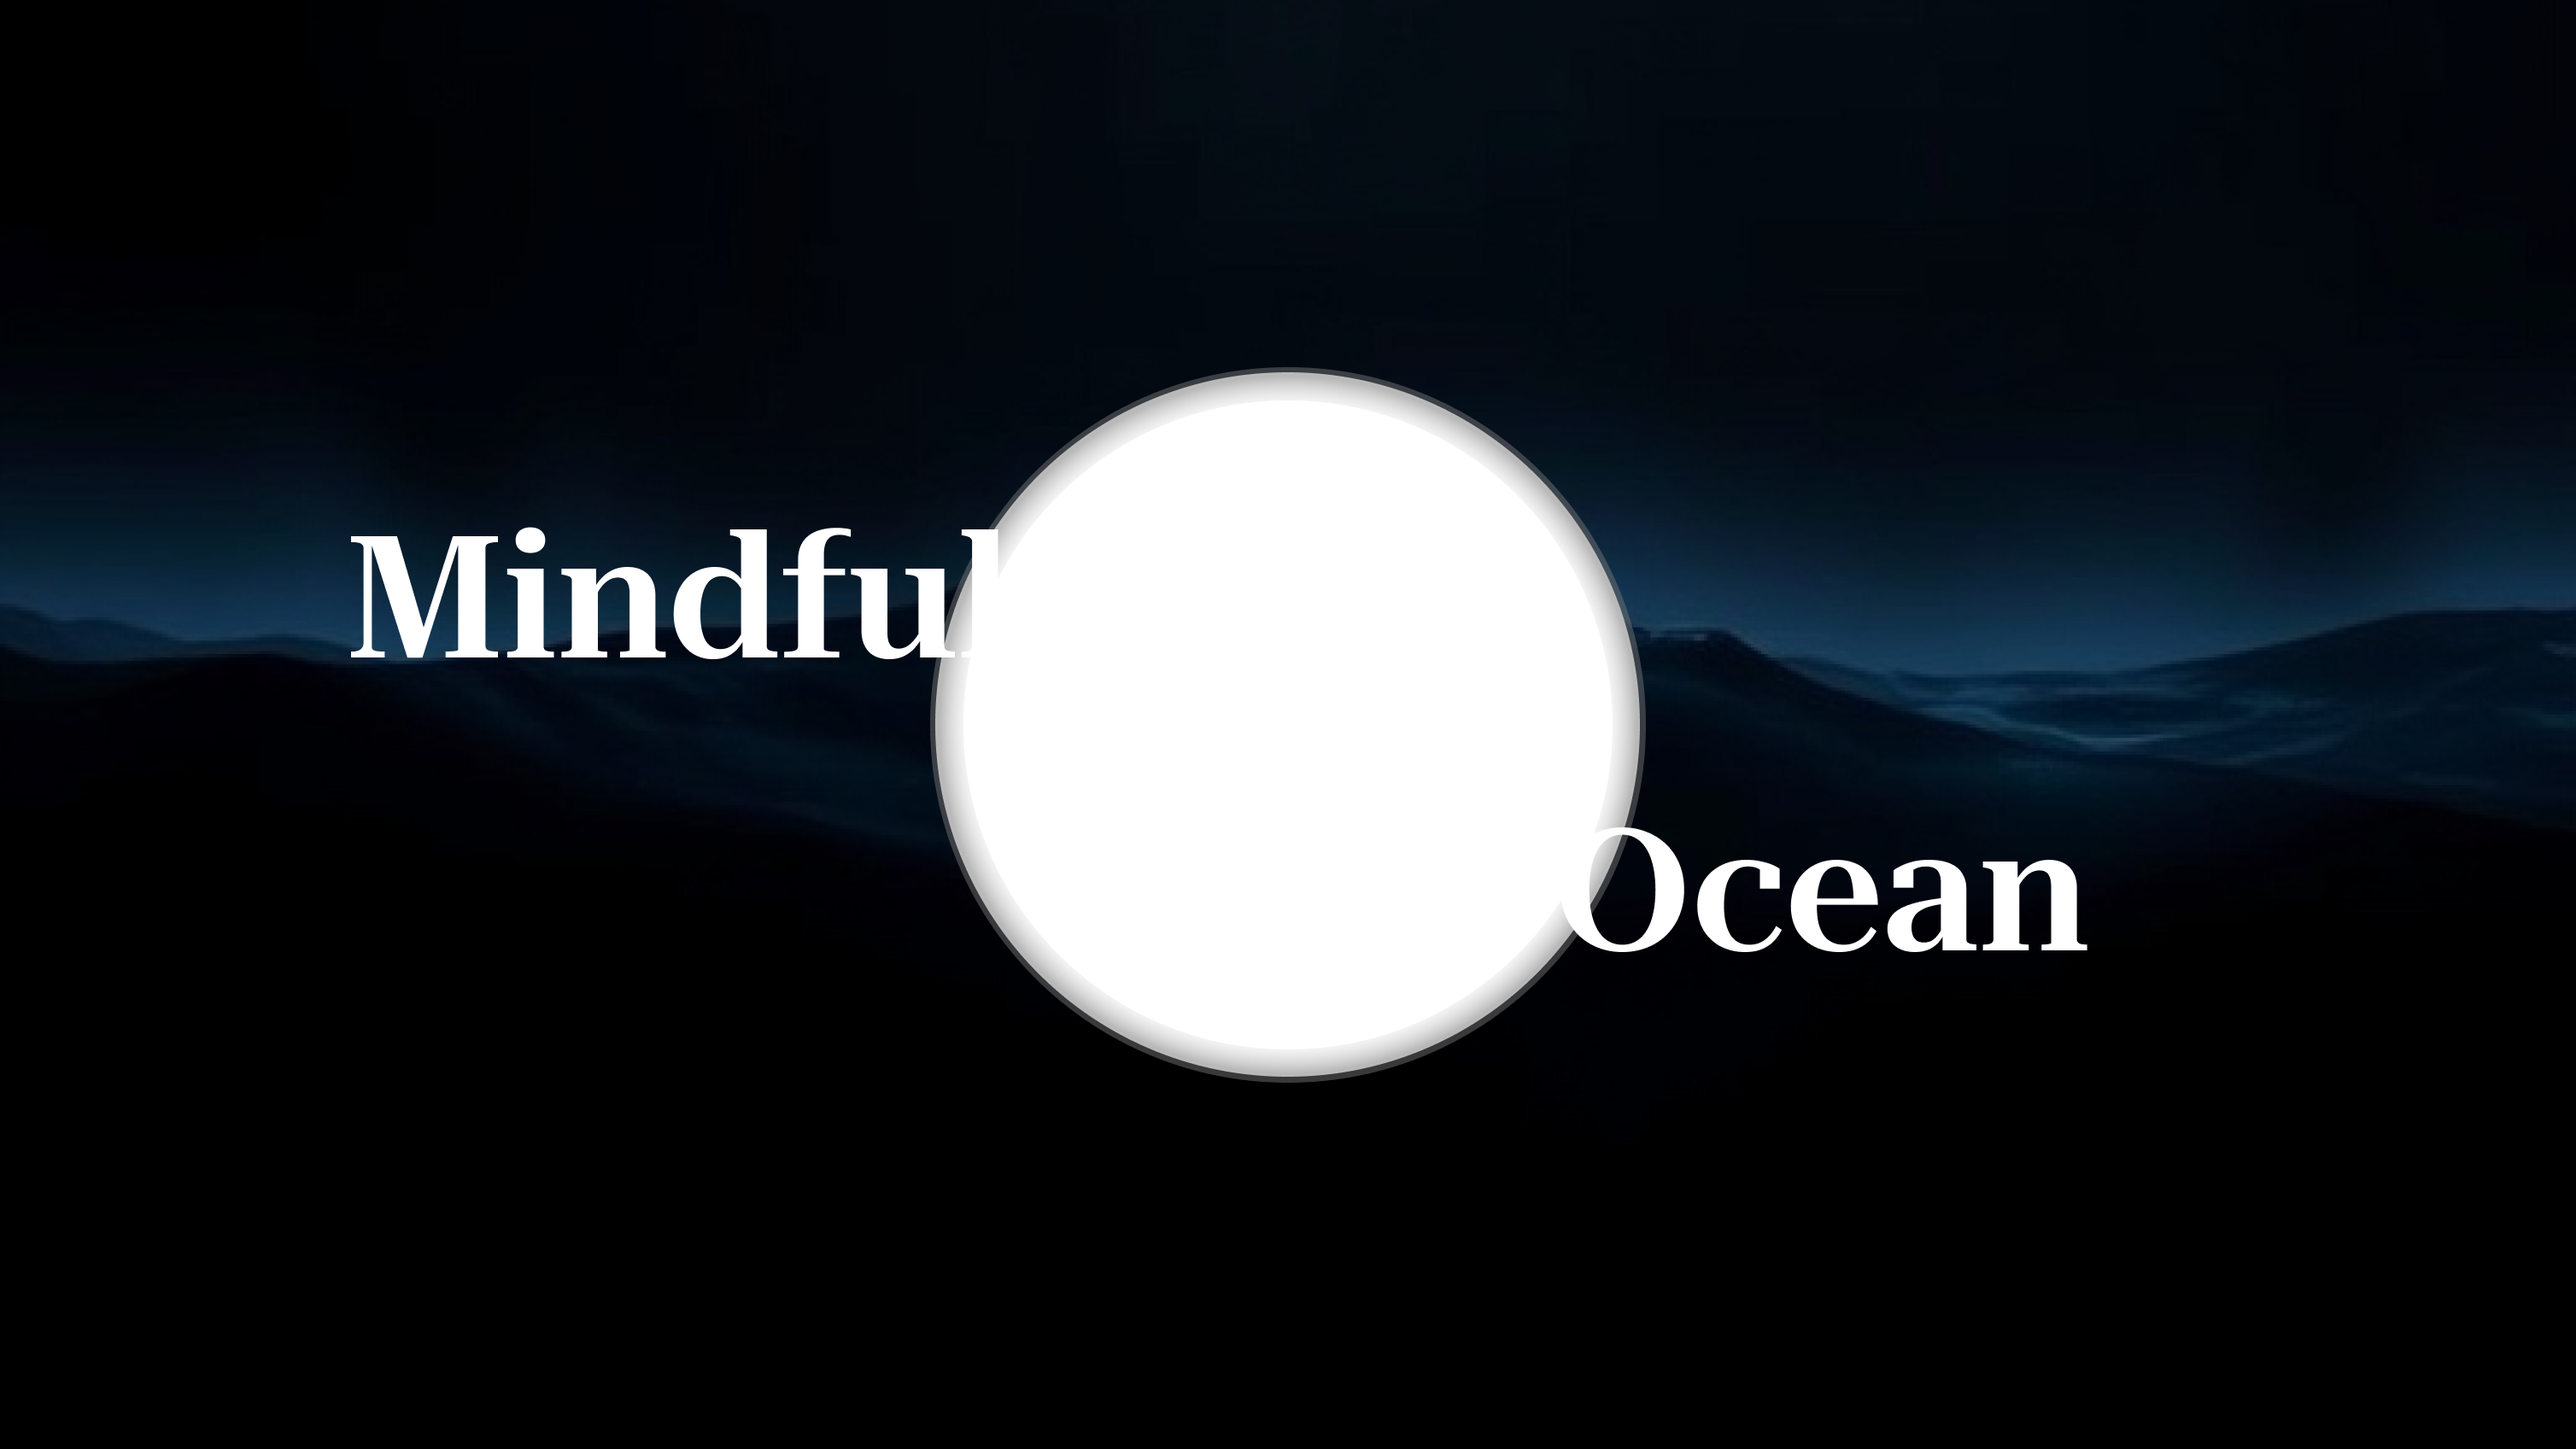
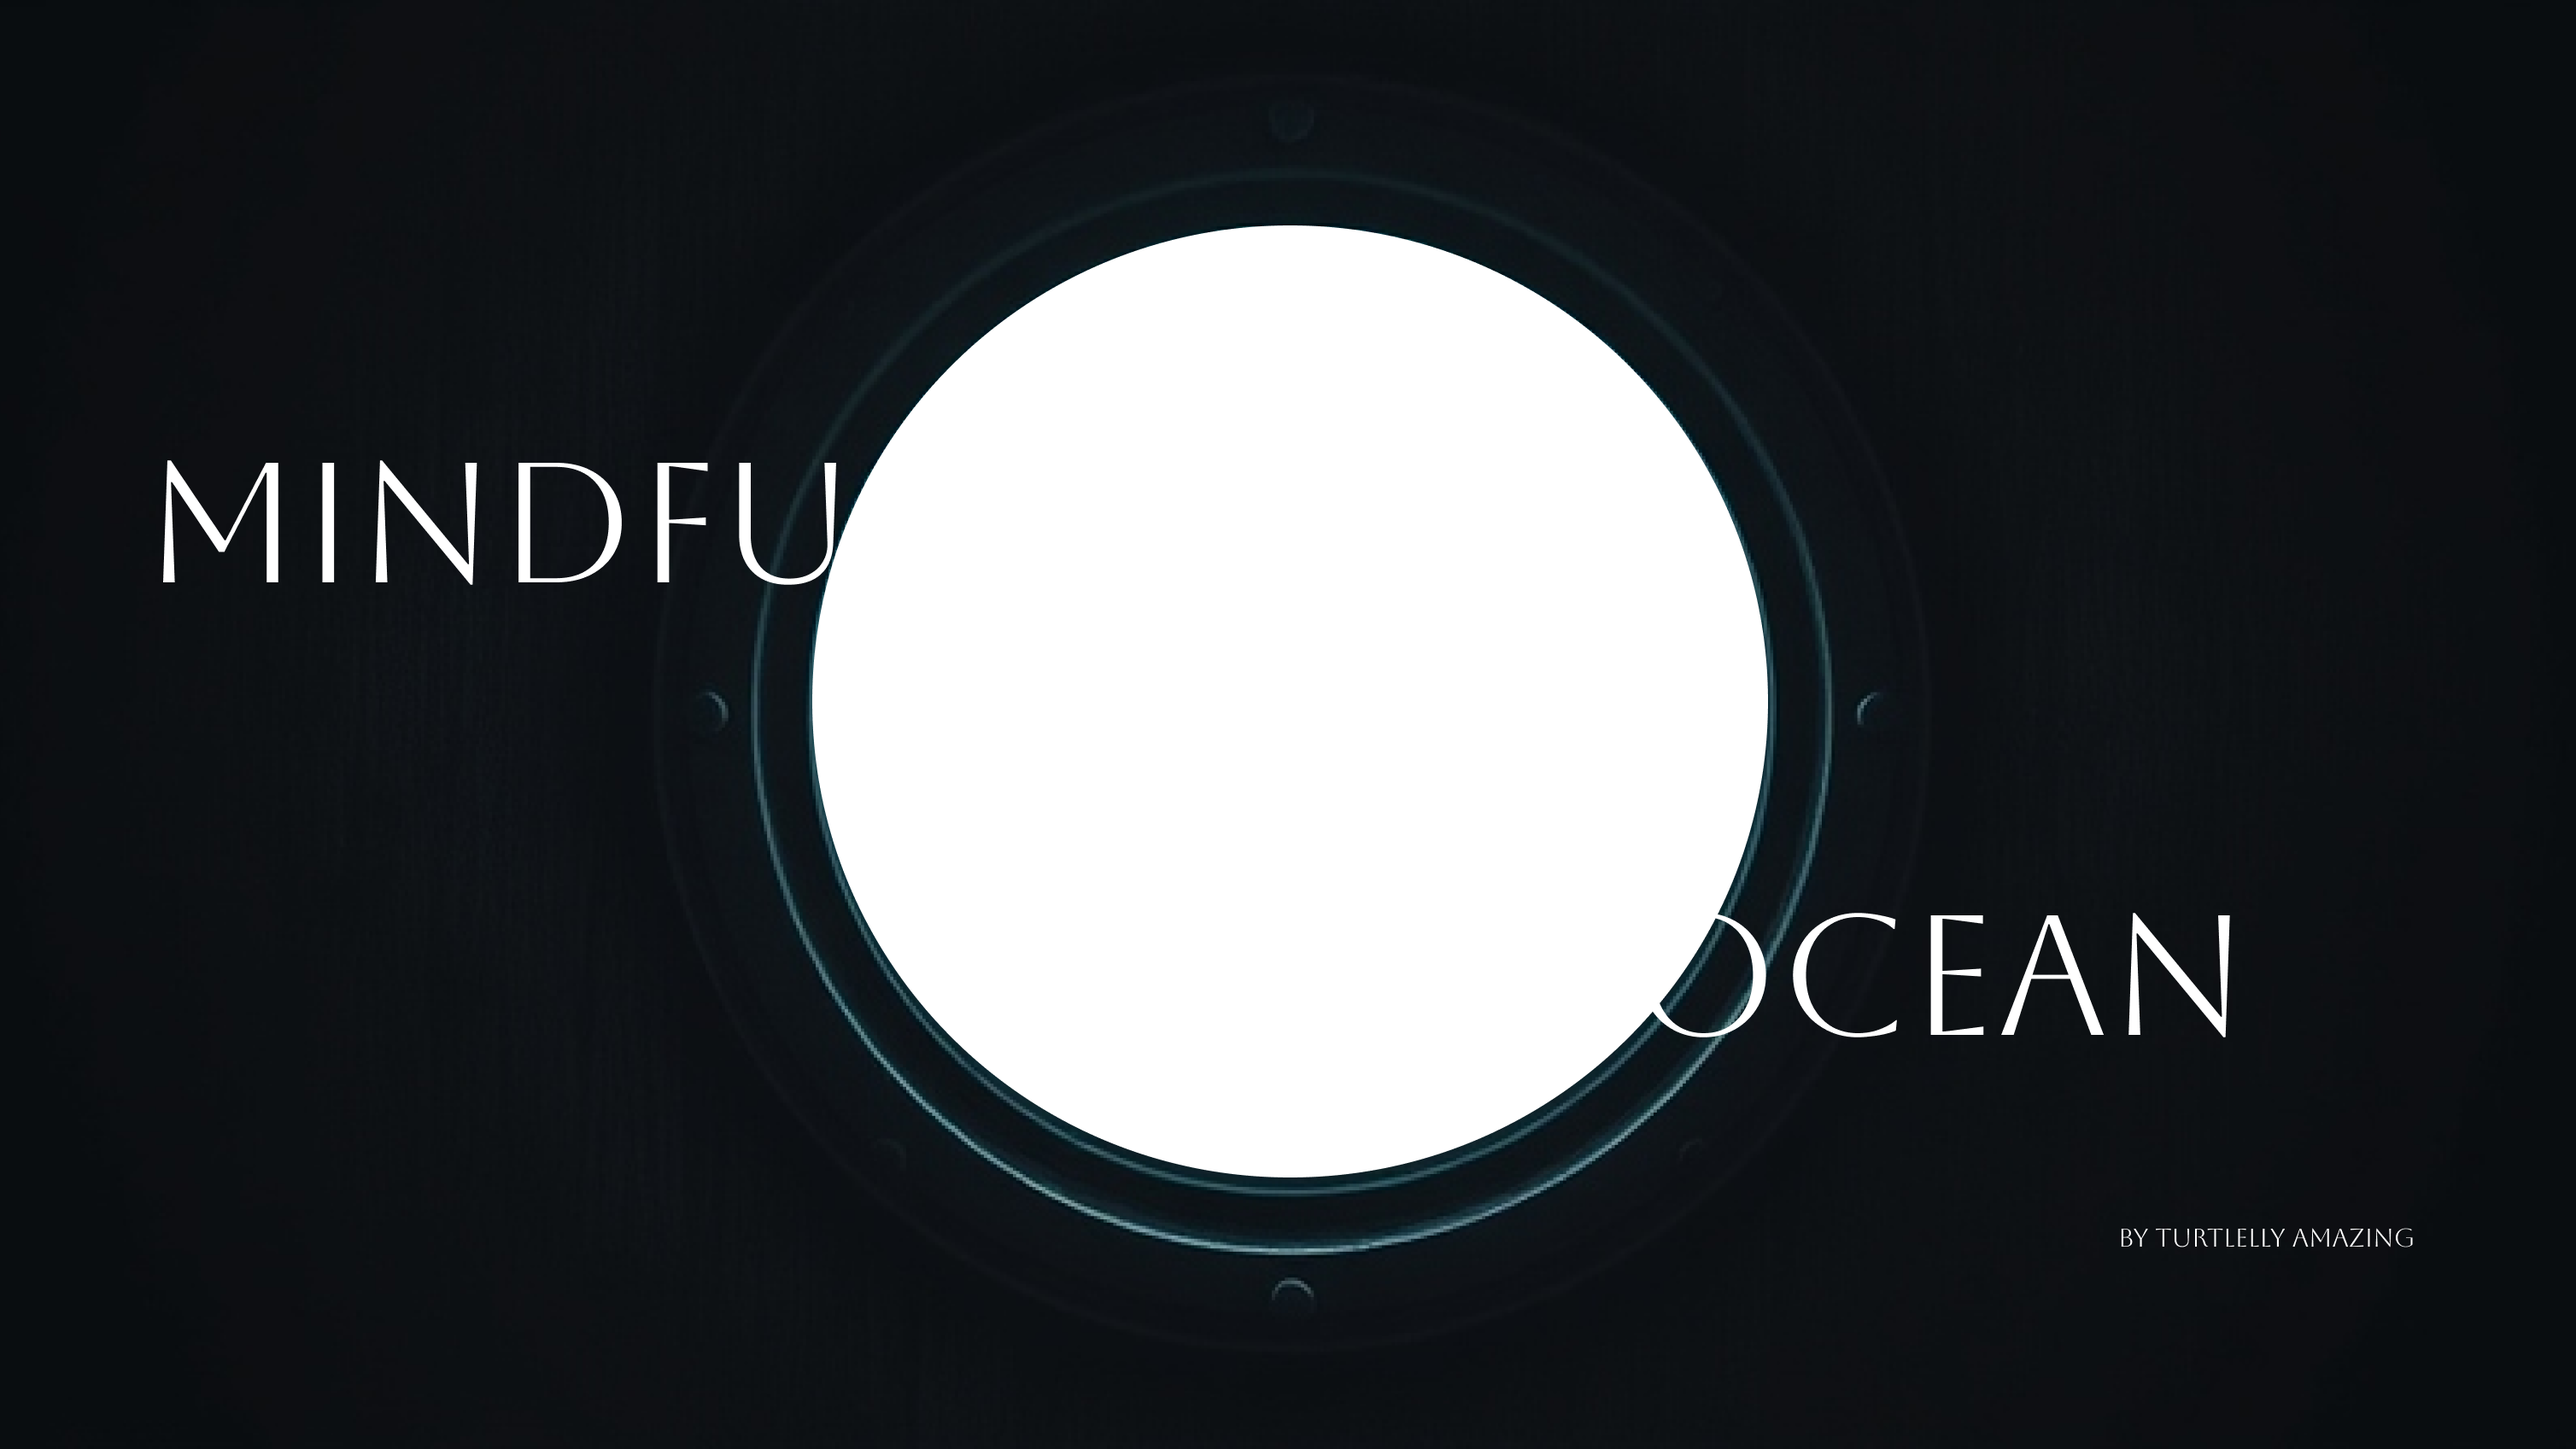
Changed frontend interface.

Changed region(s): [[0.0, 0.1562, 1.0, 0.9057], [0.8415, 0.8433, 0.935, 0.8745]]

diff --git a/client/src/components/informUserSection.tsx b/client/src/components/informUserSection.tsx
@@ -1,18 +1,17 @@
 import React from 'react';
+import { contentInformUser_1, contentInformUser_2, contentInformUser_3 } from '../resources/landigpageTextContent.tsx';
 
 interface Order {
-    text_one: string;
-    text_two: string;
-    text_three: string;
-    text_four: string;
     firstGridElementRef: React.RefObject<HTMLDivElement>;
 }
-const InformUserSection: React.FC<Order> = ({text_one, text_two, text_three, text_four, firstGridElementRef}) => {
+const InformUserSection: React.FC<Order> = ({firstGridElementRef}) => {
+    
+    
     return (
         <div className="grid grid-cols-2 grid-rows-3 gap-64 p-14" id='InformUserSection' ref={firstGridElementRef}>
-            <div ref={firstGridElementRef}>{"Microplastics are defined as plastics that are smaller than 5mm (0.20 in) and are a growing problem affecting coastal communities, marine ecosystems, marine life, and human health"}</div>
-            <div className="col-start-2 row-start-2">{"Microplastics are defined as plastics that are smaller than 5mm (0.20 in) and are a growing problem affecting coastal communities, marine ecosystems, marine life, and human health"}</div>
-            <div className="row-start-3">{"Microplastics are defined as plastics that are smaller than 5mm (0.20 in) and are a growing problem affecting coastal communities, marine ecosystems, marine life, and human health"}</div>
+            <div ref={firstGridElementRef}>{contentInformUser_1}</div>
+            <div className="col-start-2 row-start-2">{contentInformUser_2}</div>
+            <div className="row-start-3">{contentInformUser_3}</div>
         </div>
     )
 }

diff --git a/client/src/components/MainLayout.tsx b/client/src/components/MainLayout.tsx
@@ -22,16 +22,12 @@ const MainLayout: React.FC = () => {
                 <Arrow onClick={scrollToFirstGridElement}/>
             </div>*/}
             <InformUserSection
-                text_one={'1'}
-                text_two={'2'}
-                text_three={'3'}
-                text_four={'4'}
                 firstGridElementRef={firstGridElementRef}
             />
             {/*<div className="flex justify-center mt-8 box-border">*/}
             <div className="flex items-center justify-center w-full h-[350px]">
                 {/*<CircularBtn title={'Start'}/>*/}
-                <StartBtn />
+                <StartBtn title={'Start'}/>
             </div>
         </div>
 

diff --git a/client/src/components/startBtn/startBtn.tsx b/client/src/components/startBtn/startBtn.tsx
@@ -1,9 +1,12 @@
 import React from 'react';
 import './startBtn.css';
 
-const StartBtn: React.FC = () => {
+interface CircularBtnProps {
+    title: string;
+}
+const StartBtn: React.FC<CircularBtnProps> = ({title}) => {
     return (
-        <button className="pulse"><span>Start</span></button>
+        <button className="pulse"><span>{title}</span></button>
     )
 }
 

diff --git a/client/tailwind.config.js b/client/tailwind.config.js
@@ -11,7 +11,7 @@ module.exports = {
                 'redhat' : ['Red Hat Display', 'sans-serif']
             },
             backgroundImage: {
-                'hero-pattern': "url('./resources/underwater.jpeg')",
+                'hero-pattern': "url('./resources/underwater.png')",
             },
         },
     },

diff --git a/client/src/output.css b/client/src/output.css
@@ -672,7 +672,7 @@ video {
 }
 
 .bg-hero-pattern {
-  background-image: url('./resources/underwater.jpeg');
+  background-image: url('./resources/underwater.png');
 }
 
 .bg-cover {
